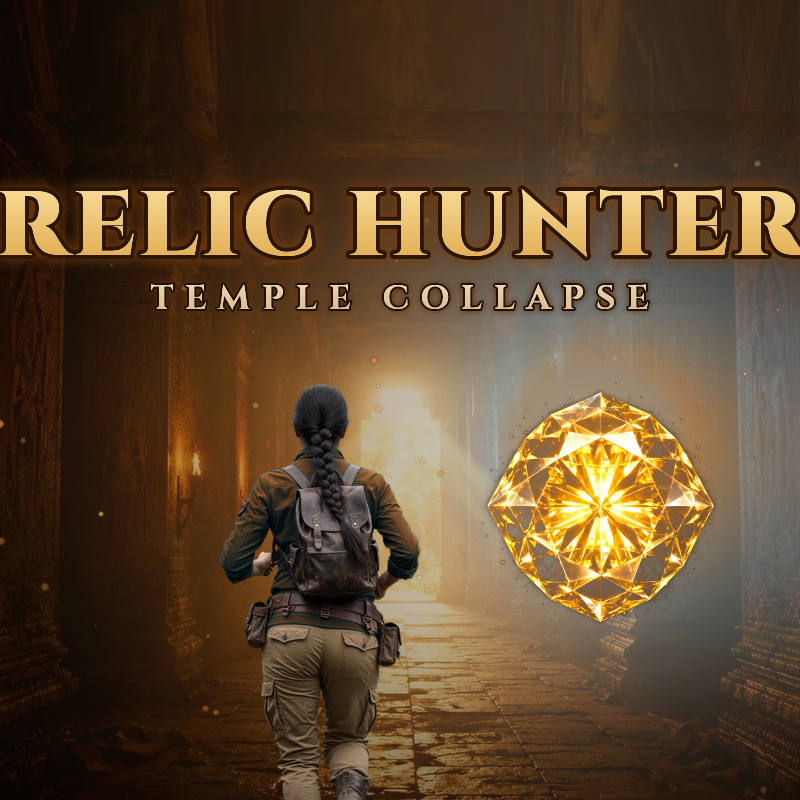
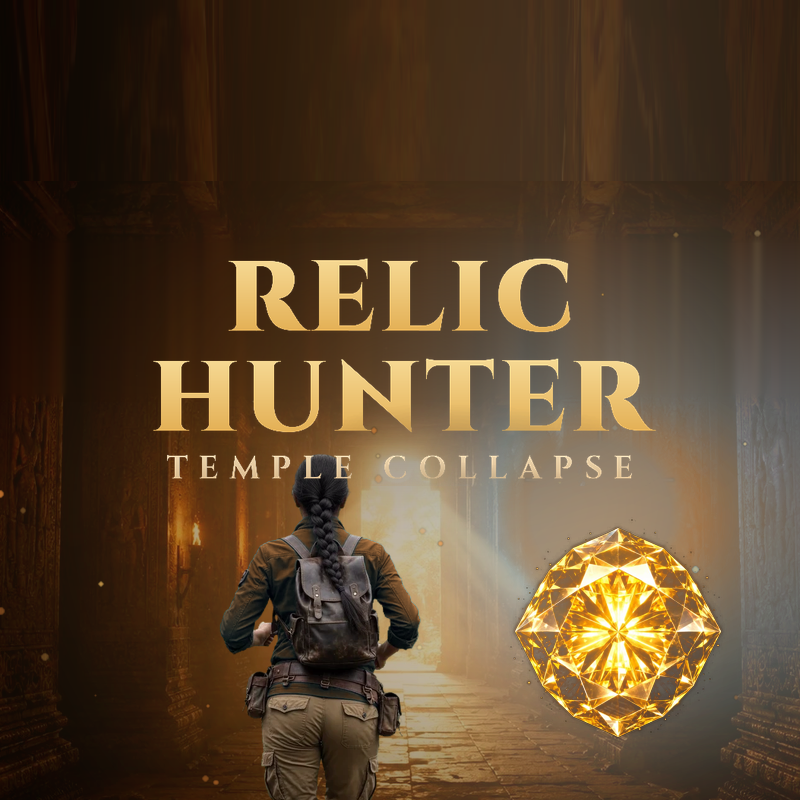
Square cover: two-line title, clear of the label-badge corner
The square's wordmark was a single line running x 0..799 — both R's sliced by
the frame — and it sat inside the corner the portal's crop dialog flags, so its
warning box landed straight over "RELI". Two rows of the same line would not
have helped: the flagged region is a corner, not a row, so a centred two-line
title at the same height still pokes into it.

Rebuilt from the pre-gem original (marketing/crazygames/square_twoline.py):

  * shifted the art down so the title band clears the corner — the new top band
    is stretched from the image's own topmost rows (dark ceiling, nothing to
    lose) and the same strip comes off the bottom;
  * lifted the intact two-line RELIC / HUNTER block from the portrait cover,
    which is the same art family and already has real margins, rather than
    trying to cut the square's clipped line in half;
  * moved the Syamantaka down and right so it clears TEMPLE COLLAPSE, which the
    taller block would otherwise have run into.

The block is matted by background subtraction, not by a luminance threshold:
the portrait's doorway glow behind the type reaches L=165 against ink at
199-217, so any flat threshold that keeps the ink also carries a wash of
corridor, and that composites as a translucent rectangle whose edge is plainly
visible under the sub-line. Subtracting a wide blur of the block from itself
cancels the gradient and leaves the glyphs (measured: background maxes at 20,
ink reaches 148).
[…]

diff --git a/marketing/crazygames/square_twoline.py b/marketing/crazygames/square_twoline.py
@@ -1,0 +1,207 @@
+"""Rebuild the SQUARE cover: two-line title, clear of the CrazyGames badge.
+
+Two flaws in one pass.
+
+  (a) The square's wordmark was a single line running 0..799 — both R's sliced
+      by the frame.
+  (b) It sat inside the label-badge corner, so the portal's own crop dialog
+      drew its warning box straight over "RELI".
+
+The PORTRAIT cover is the same art family (same hunter, same corridor, same
+Cinzel gold) and already carries an intact two-line RELIC / HUNTER block with
+real margins, so we lift that block rather than trying to cut the square's
+clipped line in half.
+
+Built from the PRE-GEM square original so the jewel can be re-placed: the
+two-line block is ~130px taller than the line it replaces, which squeezes the
+gem, and compositing over the already-gemmed file would leave no room to move
+it. Pipeline:
+
+  1. SHIFT   down so the title band clears the badge corner. The new top band is
+             stretched from the image's own topmost rows (dark ceiling, no
+             detail to lose); the same strip comes off the bottom.
+  2. DE-BLUE the stock emoji's cold glow, and ERASE the emoji itself — same two
+             passes as regem.py, at the post-shift coordinates.
+  3. CLEAR   the old one-line title and its TEMPLE COLLAPSE. A matted block
+             composited on top is transparent between its glyphs, so the old
+             line reads straight through it — it genuinely has to go. The
+             corridor there is a vertical gradient (columns, wall, doorway
+             glow), so we interpolate DOWN each column between the rows just
+             outside the band; an isotropic blur smears the doorway sideways
+             into the walls.
+  4. GEM     composite the Syamantaka lower and slightly right of where the
+             emoji sat, so it clears the sub-line instead of sitting under it.
+  5. TITLE   matte the portrait block by luminance and place it on a soft
+             warm-dark scrim, which seats the type the way the portrait does
+             and hides the interpolation.
+"""
+from PIL import Image, ImageChops, ImageDraw, ImageFilter
+import math
+
+SHIFT = 181                 # pre-shift title top is y=79; 79+181 = 260 (32.5%)
+EMOJI = (600, 332 + SHIFT)  # regem.py's square centre, carried down
+ERASE_R = 100
+DEBLUE_R = 485
+GEM = (618, 632, 232, 200)  # x, y, size, glow — below the sub-line now
+OLD_BAND = (243, 392)       # old main line 260..327 + sub-line 362..379
+BLOCK = (40, 248, 760, 562) # portrait crop: RELIC .. TEMPLE COLLAPSE, with air
+SCALE = 0.76
+INK_TOP = 262               # portrait y of the RELIC cap-line
+TARGET_TOP = 258            # where that cap-line lands on the square
+
+SRC = Image.open('SQSRC').convert('RGB')
+PT = Image.open('marketing/crazygames/portrait_800x1200.png').convert('RGB')
+JEWEL = Image.open('public/assets/temple/gem_hero.webp').convert('RGB')
+w, h = SRC.size
+
+# --- 1. shift -------------------------------------------------------------
+strip = SRC.crop((0, 0, w, 20)).resize((w, SHIFT), Image.BICUBIC)
+im = Image.new('RGB', (w, h))
+im.paste(strip, (0, 0))
+im.paste(SRC.crop((0, 0, w, h - SHIFT)), (0, SHIFT))
+
+
+def deblue(im, cx, cy, radius):
+    """Warm the emoji's cold glow. Re-tints by LUMINANCE onto a fixed amber
+    ramp rather than moving the blue excess into R/G — shifting channels lifts
+    G on an already-green-ish cyan pixel and yields an olive halo."""
+    px = im.load()
+    for y in range(max(0, cy - radius), min(h, cy + radius)):
+        for x in range(max(0, cx - radius), min(w, cx + radius)):
+            d = math.hypot(x - cx, y - cy)
+            if d > radius:
+                continue
+            f = 1.0 if d < radius * 0.75 else (radius - d) / (radius * 0.25)
+            r, g, b = px[x, y]
+            if b <= r:
+                continue
+            cast = min(1.0, (b - r) / 55.0) * f
+            L = 0.299 * r + 0.587 * g + 0.114 * b
+            warm = (min(255, L * 1.16), L * 0.79, L * 0.46)
+            px[x, y] = tuple(max(0, min(255, int(o * (1 - cast) + wv * cast)))
+                             for o, wv in zip((r, g, b), warm))
+
+
+def erase(im, cx, cy, radius):
+    """Paint the emoji out using the ring of background just outside it."""
+    blur = im.filter(ImageFilter.GaussianBlur(radius * 0.55))
+    src, dst = blur.load(), im.load()
+    ring = []
+    for a in range(0, 360, 6):
+        rx = int(cx + math.cos(math.radians(a)) * radius * 1.30)
+        ry = int(cy + math.sin(math.radians(a)) * radius * 1.30)
+        if 0 <= rx < w and 0 <= ry < h:
+            ring.append(im.getpixel((rx, ry)))
+    avg = tuple(sum(c[i] for c in ring) // len(ring) for i in range(3))
+    for y in range(max(0, cy - radius), min(h, cy + radius)):
+        for x in range(max(0, cx - radius), min(w, cx + radius)):
+            d = math.hypot(x - cx, y - cy)
+            if d > radius:
+                continue
+            f = 1.0 if d < radius * 0.7 else (radius - d) / (radius * 0.3)
+            b_, o = src[x, y], dst[x, y]
+            mix = tuple(int(b_[i] * 0.45 + avg[i] * 0.55) for i in range(3))
+            dst[x, y] = tuple(int(o[i] * (1 - f) + mix[i] * f) for i in range(3))
+
+
+# --- 2. remove the emoji --------------------------------------------------
+deblue(im, EMOJI[0], EMOJI[1], DEBLUE_R)
+erase(im, EMOJI[0], EMOJI[1], ERASE_R)
+
+# --- 3. clear the old title band ------------------------------------------
+y0, y1 = OLD_BAND
+PAD = 10
+soft = im.filter(ImageFilter.GaussianBlur(3))     # keeps a little wall grain
+bp, sp = im.load(), soft.load()
+top = [sp[x, y0 - PAD] for x in range(w)]
+bot = [sp[x, y1 + PAD] for x in range(w)]
+span = (y1 + PAD) - (y0 - PAD)
+for y in range(y0 - PAD, y1 + PAD):
+    t = (y - (y0 - PAD)) / span
+    d = min(y - (y0 - PAD), (y1 + PAD) - y)
+    f = min(1.0, d / float(PAD))                 # feather both seams
+    for x in range(w):
+        a, b = top[x], bot[x]
+        lerp = tuple(int(a[i] * (1 - t) + b[i] * t) for i in range(3))
+        o = bp[x, y]
+        bp[x, y] = tuple(int(o[i] * (1 - f) + lerp[i] * f) for i in range(3))
+
+# --- 4. the Syamantaka ----------------------------------------------------
+gx, gy, gsize, gglow = GEM
+glow = Image.new('RGB', (w, h), (0, 0, 0))
+gd = ImageDraw.Draw(glow)
+for i in range(26, 0, -1):
+    rr = int(gglow * i / 26)
+    a = int(70 * (1 - i / 26) ** 1.8)
+    gd.ellipse([gx - rr, gy - rr, gx + rr, gy + rr], fill=(a, int(a * .66), int(a * .22)))
+glow = glow.filter(ImageFilter.GaussianBlur(gglow * 0.22))
+gl = glow.load()
+for y in range(max(0, gy - gglow), min(h, gy + gglow)):
+    for x in range(max(0, gx - gglow), min(w, gx + gglow)):
+        b_, g_ = bp[x, y], gl[x, y]
+        bp[x, y] = tuple(255 - (255 - b_[i]) * (255 - g_[i]) // 255 for i in range(3))
+
+# The jewel is authored on pure black. Screen-blending drops the black for free
+# but can only ADD light, washing the deep amber facets out over a lit wall —
+# so derive an alpha from its own luminance and composite normally instead.
+g = JEWEL.resize((gsize, gsize), Image.LANCZOS)
+gp = g.load()
+ox, oy = gx - gsize // 2, gy - gsize // 2
+for y in range(gsize):
+    Y = oy + y
+    if not (0 <= Y < h):
+        continue
+    for x in range(gsize):
+        X = ox + x
+        if not (0 <= X < w):
+            continue
+        s = gp[x, y]
+        L = (0.299 * s[0] + 0.587 * s[1] + 0.114 * s[2]) / 255.0
+        a = min(1.0, (L * 1.5) ** 0.75)
+        o = bp[X, Y]
+        bp[X, Y] = tuple(int(o[i] * (1 - a) + s[i] * a) for i in range(3))
+
+# --- 5. the two-line title ------------------------------------------------
+# Matte the block by BACKGROUND SUBTRACTION, not by a luminance threshold. The
+# portrait's doorway glow behind the type reaches L=165 while the gold ink is
+# only ~199-217, so any flat threshold that keeps the ink also keeps a wash of
+# corridor — which composites as a faint translucent rectangle whose edge is
+# plainly visible under TEMPLE COLLAPSE. Subtracting a wide blur of the block
+# from itself removes that gradient: the glyphs are far narrower than the blur
+# radius, so they survive while everything smooth cancels. Measured on this
+# crop: background maxes at 20, ink reaches 148.
+blk = PT.crop(BLOCK)
+bw, bh = blk.size
+lum = blk.convert('L')
+diff = ImageChops.subtract(lum, lum.filter(ImageFilter.GaussianBlur(55)))
+dp = diff.load()
+mat = Image.new('RGBA', (bw, bh), (0, 0, 0, 0))
+kp, mp = blk.load(), mat.load()
+LO, HI = 14, 90
+for y in range(bh):
+    for x in range(bw):
+        a = (dp[x, y] - LO) / float(HI - LO)
+        a = max(0.0, min(1.0, a))
+        if a:
+            mp[x, y] = kp[x, y] + (int(a * 255),)
+
+nw, nh = int(bw * SCALE), int(bh * SCALE)
+title = mat.resize((nw, nh), Image.LANCZOS)
+nx = (w - nw) // 2
+ny = TARGET_TOP - int((INK_TOP - BLOCK[1]) * SCALE)
+
+scrim = Image.new('RGBA', (w, h), (0, 0, 0, 0))
+sd = ImageDraw.Draw(scrim)
+cy = ny + nh // 2
+for i in range(28, 0, -1):
+    ry, rx = int(nh * 0.80 * i / 28), int(nw * 0.80 * i / 28)
+    sd.ellipse([w // 2 - rx, cy - ry, w // 2 + rx, cy + ry],
+               fill=(14, 8, 3, int(96 * (1 - i / 28) ** 1.5)))
+scrim = scrim.filter(ImageFilter.GaussianBlur(34))
+
+out = im.convert('RGBA')
+out.alpha_composite(scrim)
+out.alpha_composite(title, (nx, ny))
+out.convert('RGB').save('SQOUT')
+print(f'title block {nw}x{nh} at x {nx}..{nx + nw}, y {ny}..{ny + nh}')
+print(f'gem {gsize}px at ({gx},{gy}) -> y {gy - gsize // 2}..{gy + gsize // 2}')

diff --git a/marketing/CRAZYGAMES-SUBMISSION.md b/marketing/CRAZYGAMES-SUBMISSION.md
@@ -18,27 +18,39 @@ Output: `dist-crazygames/` — `index.html` + `assets/`, all paths relative. The
 its own size report and **hard-fails if a listed asset is missing** (see
 `vite.crazygames.config.js`), so a stale asset list can no longer ship as silent 404s.
 
-Zip the **contents** of `dist-crazygames/` (not the folder itself — `index.html` must sit at
-the zip root):
+**Do NOT zip it.** The portal's upload zone rejects archives outright:
+
+> Archive files are not supported, please drag and drop the files directly in the upload zone.
+
+Instead, open `dist-crazygames/`, select all five top-level entries — `index.html`,
+`privacy.html`, `favicon.svg`, `favicon.ico` and the `assets/` folder — and drag them into
+the "Upload files" box on step 1 of the submit wizard. Chrome preserves the directory
+structure on drag-and-drop, which matters: the game loads everything from `./assets/...`.
 
 ```bash
-cd dist-crazygames && zip -qr ../relic-hunter-crazygames.zip . && cd ..
+open dist-crazygames        # then drag the contents into the browser
 ```
 
 The build renames Vite's `crazygames.html` output to `index.html` automatically, so no manual
-rename step is needed any more.
+rename step is needed.
 
 ## Manual portal steps (cannot be automated)
 
 1. **Register / sign in** at https://developer.crazygames.com.
 2. **Create the game** → "Add game" → HTML5. Name: *Relic Hunter* (subtitle *Temple Collapse*).
    Category: Adventure / Runner. Tags: runner, 3D, maze, temple, adventure.
-3. **Upload the build**: `relic-hunter-crazygames.zip`. The portal unzips and serves it in a
-   QA iframe. Confirm it loads to the ▶ Play intro.
+3. **Upload the build**: drag the contents of `dist-crazygames/` in (see above — no zip).
+   The portal serves it in a QA iframe. Confirm it loads to the ▶ Play intro.
 4. **Covers / screenshots / video** — ready under `marketing/crazygames/` and
    `store-assets/crazygames/`:
    - Covers: `landscape_1920x1080.png`, `portrait_800x1200.png`, `square_800x800.png`
      (all three carry the RELIC HUNTER wordmark and match the in-game brand).
+     All three are positioned clear of the **label-badge corner** — the portal's crop
+     dialog draws a warning box over roughly the top-left third, and the title must not
+     sit under it. The square was rebuilt for this (`square_twoline.py`): its wordmark
+     used to be a single line running edge to edge, with both R's sliced by the frame,
+     sitting squarely in that corner. It now carries the portrait's intact two-line
+     RELIC / HUNTER block, and the gem moved down to clear the sub-line.
    - Preview videos: `store-assets/crazygames/videos/relic-hunter_preview_*.mp4` —
      landscape 1920×1080 (18.1 s, 26 MB) and portrait 1080×1620 (17.8 s, 18 MB).
      Both open on the matching static cover, then cut to a real recorded L5 run
@@ -139,9 +151,10 @@ no 4xx/5xx.
   ~3 MB with no audible loss on a background loop), `gem_claim.webm` 1.2 MB +
   `gem_claim.mp4` 1.1 MB (both kept for codec coverage), then the wall/floor textures.
   Getting under 20 MB needs the music re-encode **and** a texture pass.
-- ⚠ **Cover art review** — the blue gem on the covers reads as a generic stock/emoji icon
-  against the photoreal art. Cover guidelines ask for consistent visuals and no store/app
-  icons; worth redrawing before upload.
+- ✅ **Cover art review** — the blue stock emoji that used to stand in for the relic is
+  gone; all four covers now carry the game's own Syamantaka sun-jewel
+  (`public/assets/temple/gem_hero.webp`), so the cover and the level-5 payoff show the
+  same object. See `regem.py` and `square_twoline.py`, both committed alongside the PNGs.
 - ✅ **Refresh-rate consistency** — the frame loop is delta-timed
   (`dt = Math.min(50, rawMs) / 1000`) and every sim step integrates `dt`, so 144/165 Hz
   monitors run the same pacing. (Camera smoothing uses `Math.min(1, dt*k)` lerps, which
